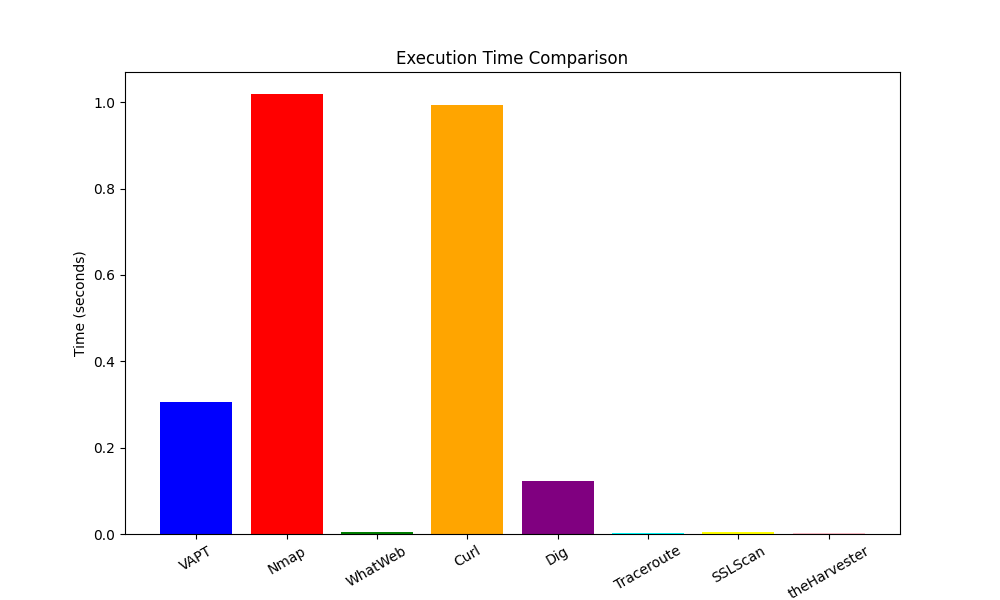
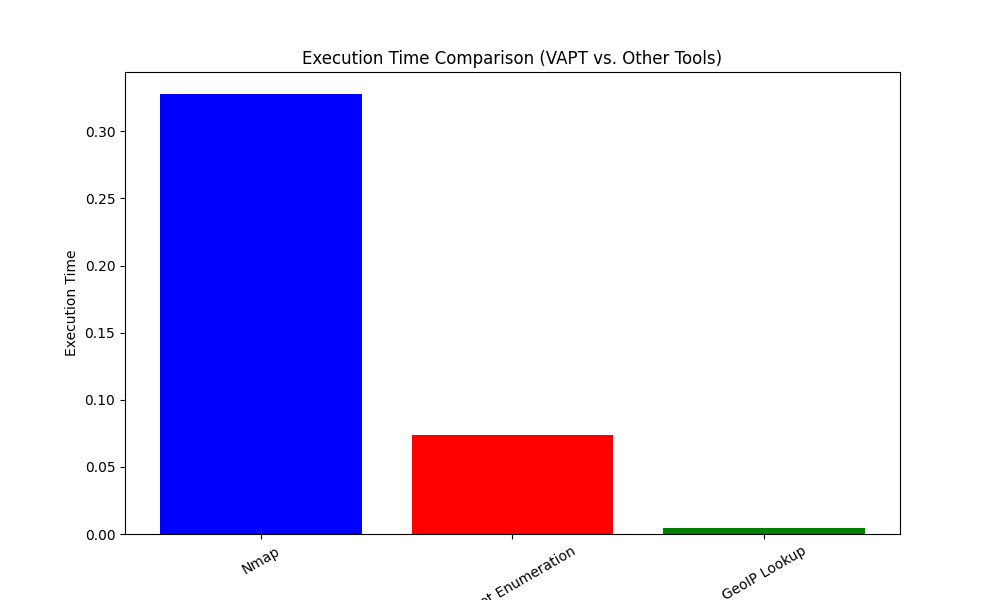
Fix: Improved performance benchmarking & graph generation

diff --git a/tests/test_performance.py b/tests/test_performance.py
@@ -3,6 +3,7 @@ import os
 import time
 import psutil
 import subprocess
+import argparse
 import matplotlib.pyplot as plt
 from memory_profiler import memory_usage
 
@@ -21,11 +22,11 @@ class TestPerformance(unittest.TestCase):
         start_time = time.time()
         try:
             process = subprocess.Popen(
-                command, 
-                stdin=subprocess.PIPE, 
-                stdout=subprocess.PIPE, 
-                stderr=subprocess.PIPE, 
-                shell=True, 
+                command,
+                stdin=subprocess.PIPE,
+                stdout=subprocess.PIPE,
+                stderr=subprocess.PIPE,
+                shell=True,
                 text=True
             )
             process.communicate(input=input_commands)
@@ -106,5 +107,24 @@ class TestPerformance(unittest.TestCase):
 
 
 if __name__ == "__main__":
-    unittest.main()
+    # Argument Parsing
+    parser = argparse.ArgumentParser(description="Run performance tests for VAPT and other tools.")
+    parser.add_argument("--mode", choices=["vapt", "tools", "all"], required=True, help="Select the test mode to run.")
+    args = parser.parse_args()
+
+    # Create test suite based on mode
+    suite = unittest.TestSuite()
+    if args.mode == "vapt":
+        suite.addTest(TestPerformance("test_vapt_performance"))
+    elif args.mode == "tools":
+        suite.addTest(TestPerformance("test_other_tools_performance"))
+    elif args.mode == "all":
+        suite.addTests([
+            TestPerformance("test_vapt_performance"),
+            TestPerformance("test_other_tools_performance")
+        ])
+
+    # Run tests
+    runner = unittest.TextTestRunner()
+    runner.run(suite)
 
